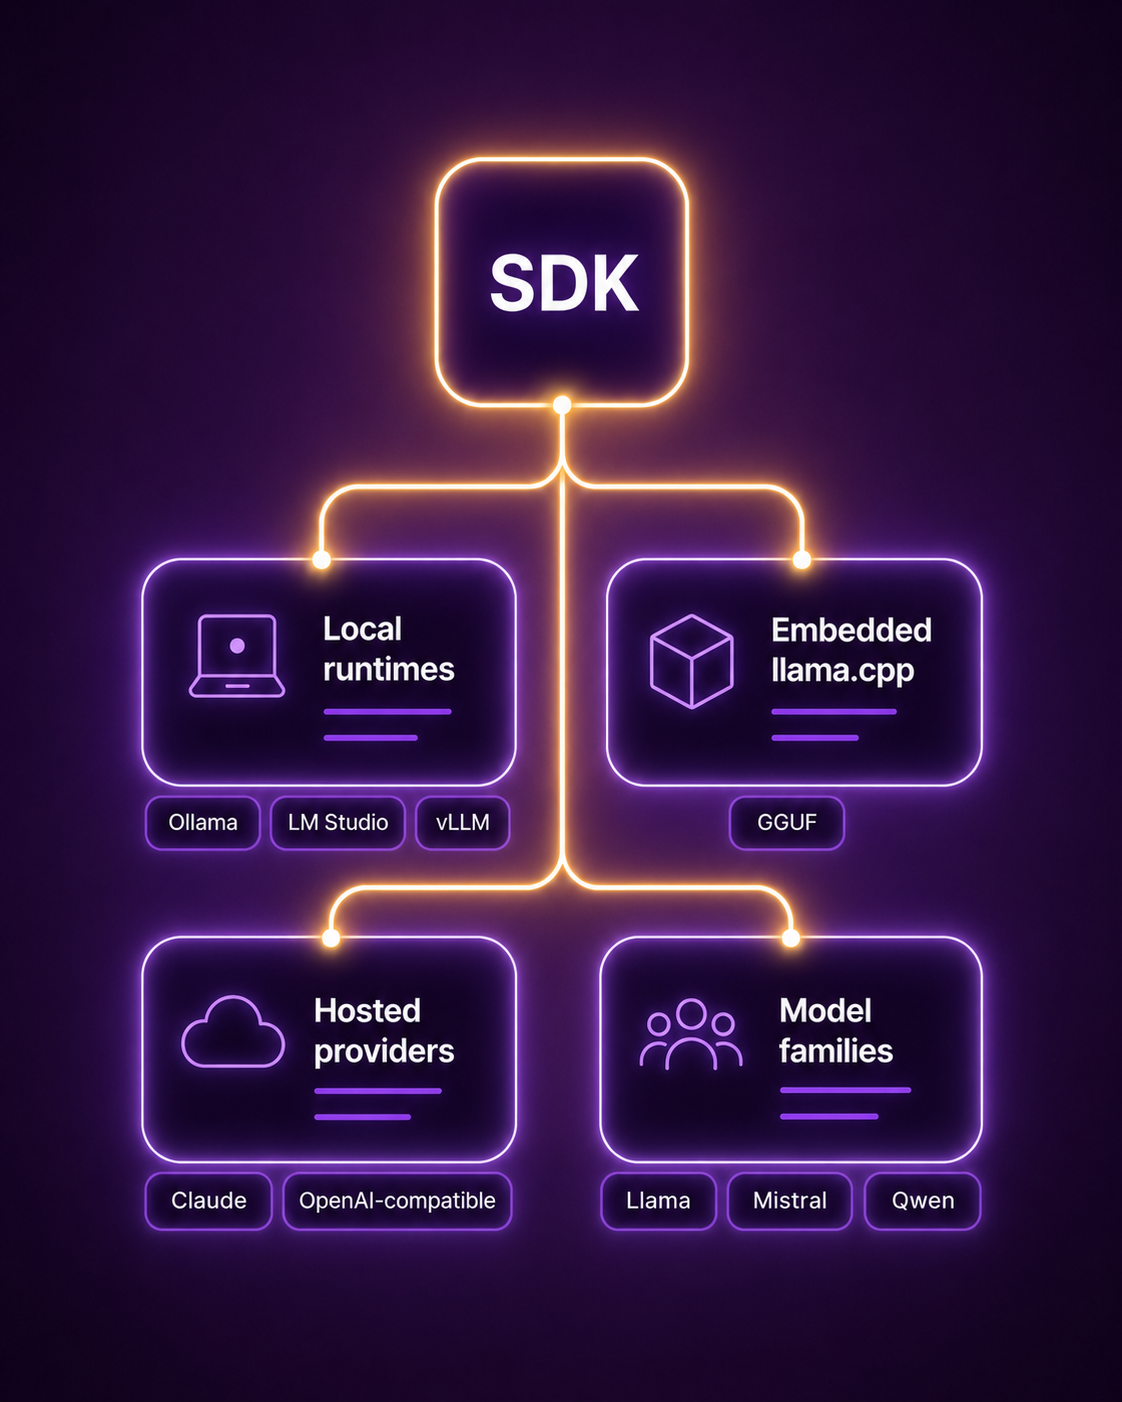
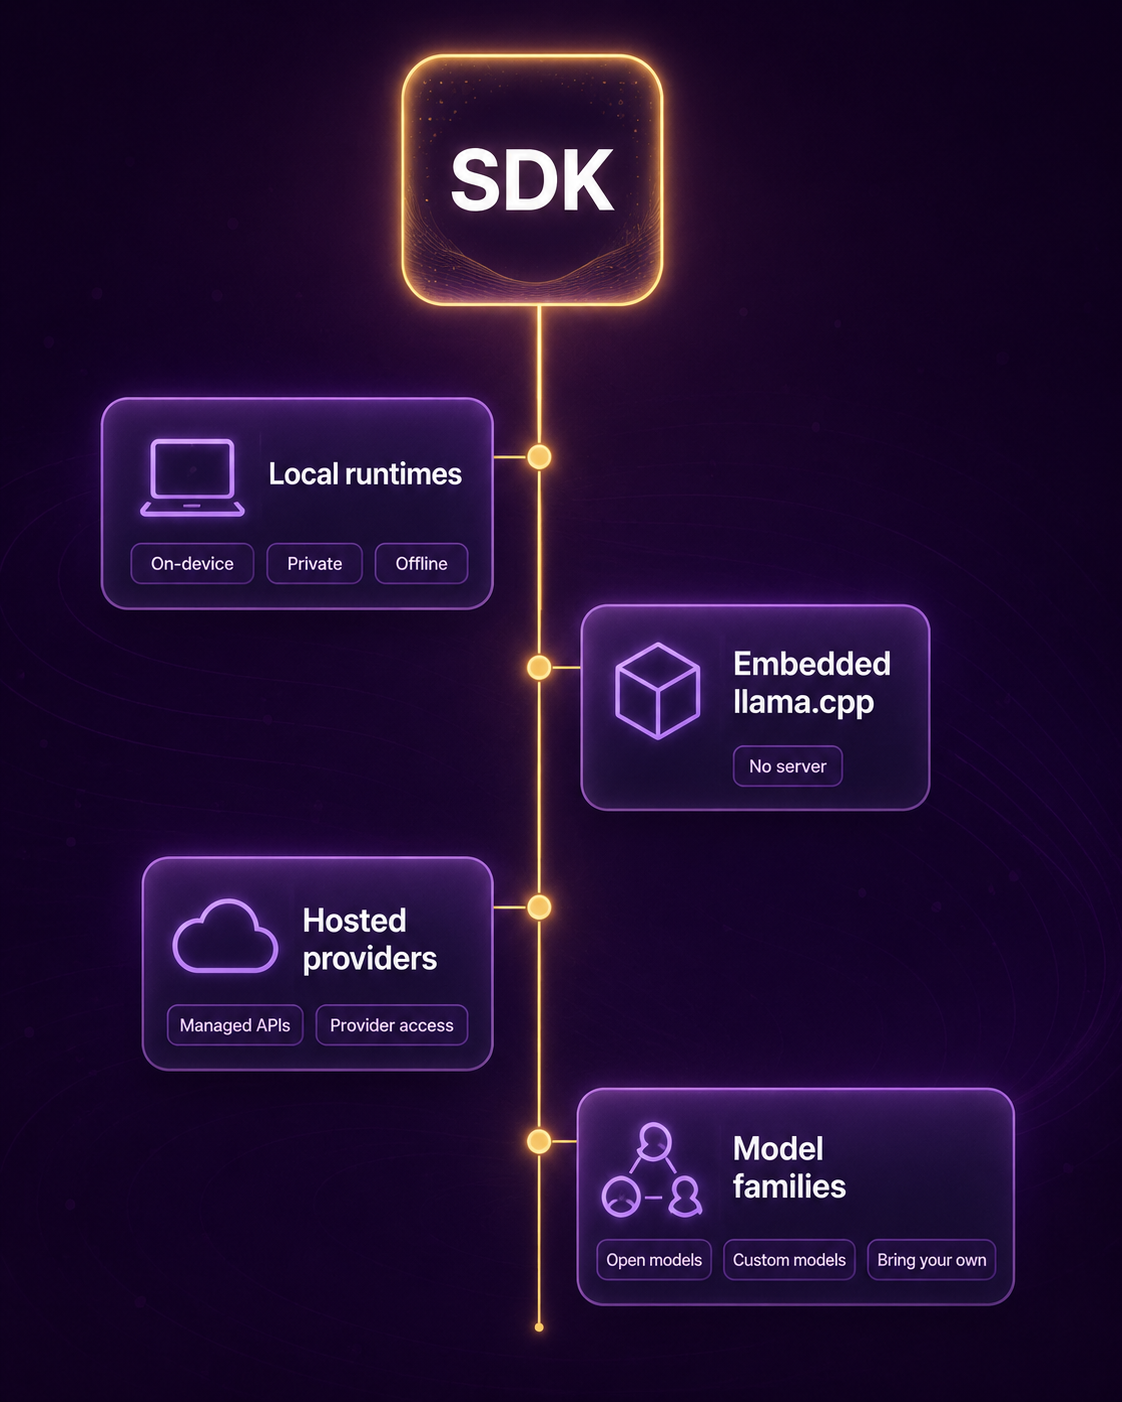
update

diff --git a/index.html b/index.html
@@ -764,6 +764,50 @@
       gap: 24px;
     }
 
+    .llm-support-layout {
+      display: grid;
+      grid-template-columns: minmax(0, 0.9fr) minmax(360px, 1.1fr);
+      grid-template-areas:
+        "title visual"
+        "cards visual";
+      gap: 34px;
+      align-items: start;
+    }
+
+    .llm-support-title {
+      grid-area: title;
+      max-width: none;
+      margin-bottom: 0;
+    }
+
+    .llm-support-cards {
+      grid-area: cards;
+      display: grid;
+      gap: 16px;
+    }
+
+    .llm-support-cards .llm-card {
+      min-height: 0;
+      padding: 22px;
+    }
+
+    .llm-support-visual {
+      grid-area: visual;
+      position: sticky;
+      top: 28px;
+      margin: 0;
+    }
+
+    .llm-support-visual img {
+      display: block;
+      width: 100%;
+      height: auto;
+      border: 1px solid rgba(236, 222, 246, 0.16);
+      border-radius: 28px;
+      box-shadow: var(--shadow);
+      background: rgba(9, 0, 13, 0.34);
+    }
+
     .context-grid {
       grid-template-columns: repeat(4, 1fr);
     }
@@ -1347,6 +1391,14 @@
       .hero, .split, .cta, .mcp-panel, .portfolio-panel { grid-template-columns: 1fr; }
       .faq-layout { grid-template-columns: 1fr; gap: 28px; }
       .cards, .standards, .llm-grid, .context-grid, .capability-grid, .guide-grid, .doc-grid, .model-command-grid { grid-template-columns: repeat(2, 1fr); }
+      .llm-support-layout {
+        grid-template-columns: 1fr;
+        grid-template-areas:
+          "title"
+          "visual"
+          "cards";
+      }
+      .llm-support-visual { position: static; }
       .standards-layout { grid-template-columns: 1fr; }
       .standards-visual { position: static; }
       .standards-visual img {
@@ -1367,6 +1419,7 @@
     @media (max-width: 620px) {
       .cards, .standards, .llm-grid, .context-grid, .steps, .status-grid, .capability-grid, .guide-grid, .doc-grid, .model-command-grid { grid-template-columns: 1fr; }
       .standards-layout .standards { grid-template-columns: 1fr; }
+      .llm-support-cards .llm-card { padding: 20px; }
       section { padding: 54px 0; }
       .section-title { margin-bottom: 28px; }
       .hero { padding-top: 40px; gap: 34px; }
@@ -1551,35 +1604,41 @@
       </section>
 
       <section id="llms">
-        <div class="section-title">
-          <h2>Designed for local and provider LLM support</h2>
-          <p>
-            The SDK keeps generation workflows provider-aware while staying grounded in the Open Data Products standards family. Choose a local runtime for private or offline work, run a GGUF model directly with the optional embedded llama.cpp extra, or connect a hosted provider when managed model access fits better.
-            Generation configuration can be extended with additional local models, hosted providers, and OpenAI-compatible endpoints.
-          </p>
-        </div>
+        <div class="llm-support-layout">
+          <div class="section-title llm-support-title">
+            <h2>Designed for local and provider LLM support</h2>
+            <p>
+              The SDK keeps generation workflows provider-aware while staying grounded in the Open Data Products standards family. Choose a local runtime for private or offline work, run a GGUF model directly with the optional embedded llama.cpp extra, or connect a hosted provider when managed model access fits better.
+              Generation configuration can be extended with additional local models, hosted providers, and OpenAI-compatible endpoints.
+            </p>
+          </div>
 
-        <div class="llm-grid">
-          <article class="llm-card">
-            <small>Local runtimes</small>
-            <h3>Run models on your machine</h3>
-            <p>Use Ollama, LM Studio, vLLM, llama.cpp server, LocalAI, or another OpenAI-compatible local chat server for local generation workflows.</p>
-          </article>
-          <article class="llm-card">
-            <small>Embedded llama.cpp</small>
-            <h3>Run GGUF models without a server</h3>
-            <p>Install <code>open-data-products[llama-cpp]</code> and select <code>llamacpp-embedded</code> when a workflow should call <code>llama-cpp-python</code> directly instead of a separate local API server.</p>
-          </article>
-          <article class="llm-card">
-            <small>Model families</small>
-            <h3>Bring the local model you trust</h3>
-            <p>Work with model families such as Llama, DeepSeek, Qwen, Mistral, Mixtral, Phi, Gemma, Code Llama, StarCoder, Yi, Command R, Falcon, Granite, Nemotron, Vicuna, and WizardLM when exposed by your runtime.</p>
-          </article>
-          <article class="llm-card">
-            <small>Hosted providers</small>
-            <h3>Use managed LLM APIs</h3>
-            <p>Connect service providers such as Claude, OpenAI, OpenRouter, and Groq through generation configuration, then validate generated ODPS, ODPC, ODPG, ODPV, and data contract artifacts before use.</p>
-          </article>
+          <div class="llm-support-cards">
+            <article class="llm-card">
+              <small>Local runtimes</small>
+              <h3>Run models on your machine</h3>
+              <p>Use Ollama, LM Studio, vLLM, llama.cpp server, LocalAI, or another OpenAI-compatible local chat server for local generation workflows.</p>
+            </article>
+            <article class="llm-card">
+              <small>Embedded llama.cpp</small>
+              <h3>Run GGUF models without a server</h3>
+              <p>Install <code>open-data-products[llama-cpp]</code> and select <code>llamacpp-embedded</code> when a workflow should call <code>llama-cpp-python</code> directly instead of a separate local API server.</p>
+            </article>
+            <article class="llm-card">
+              <small>Model families</small>
+              <h3>Bring the local model you trust</h3>
+              <p>Work with model families such as Llama, DeepSeek, Qwen, Mistral, Mixtral, Phi, Gemma, Code Llama, StarCoder, Yi, Command R, Falcon, Granite, Nemotron, Vicuna, and WizardLM when exposed by your runtime.</p>
+            </article>
+            <article class="llm-card">
+              <small>Hosted providers</small>
+              <h3>Use managed LLM APIs</h3>
+              <p>Connect service providers such as Claude, OpenAI, OpenRouter, and Groq through generation configuration, then validate generated ODPS, ODPC, ODPG, ODPV, and data contract artifacts before use.</p>
+            </article>
+          </div>
+
+          <figure class="llm-support-visual">
+            <img src="images/llm-soup.png" alt="Illustration of local and hosted LLM provider options around the Open Data Products SDK." />
+          </figure>
         </div>
       </section>
 